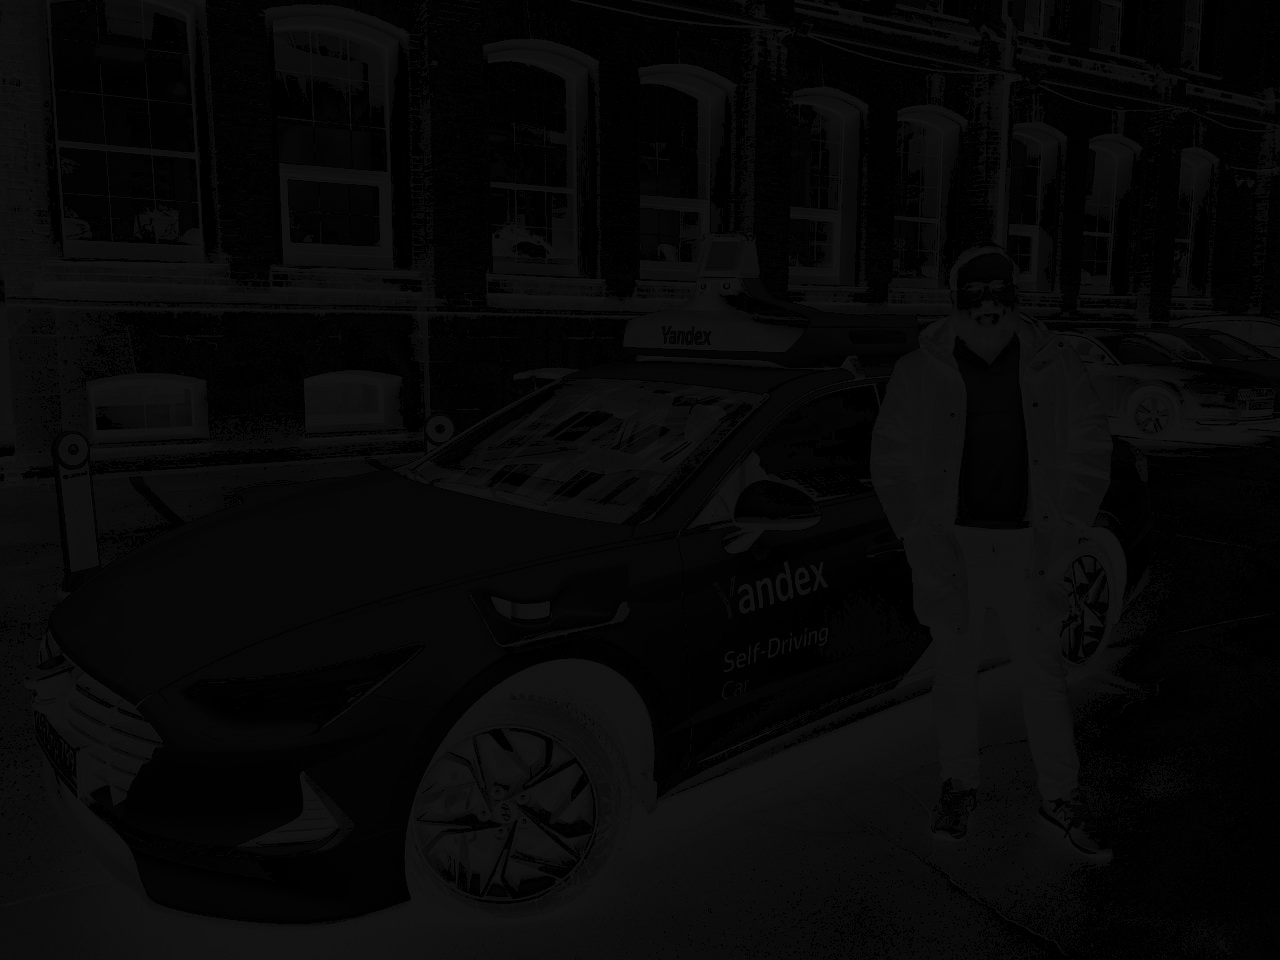
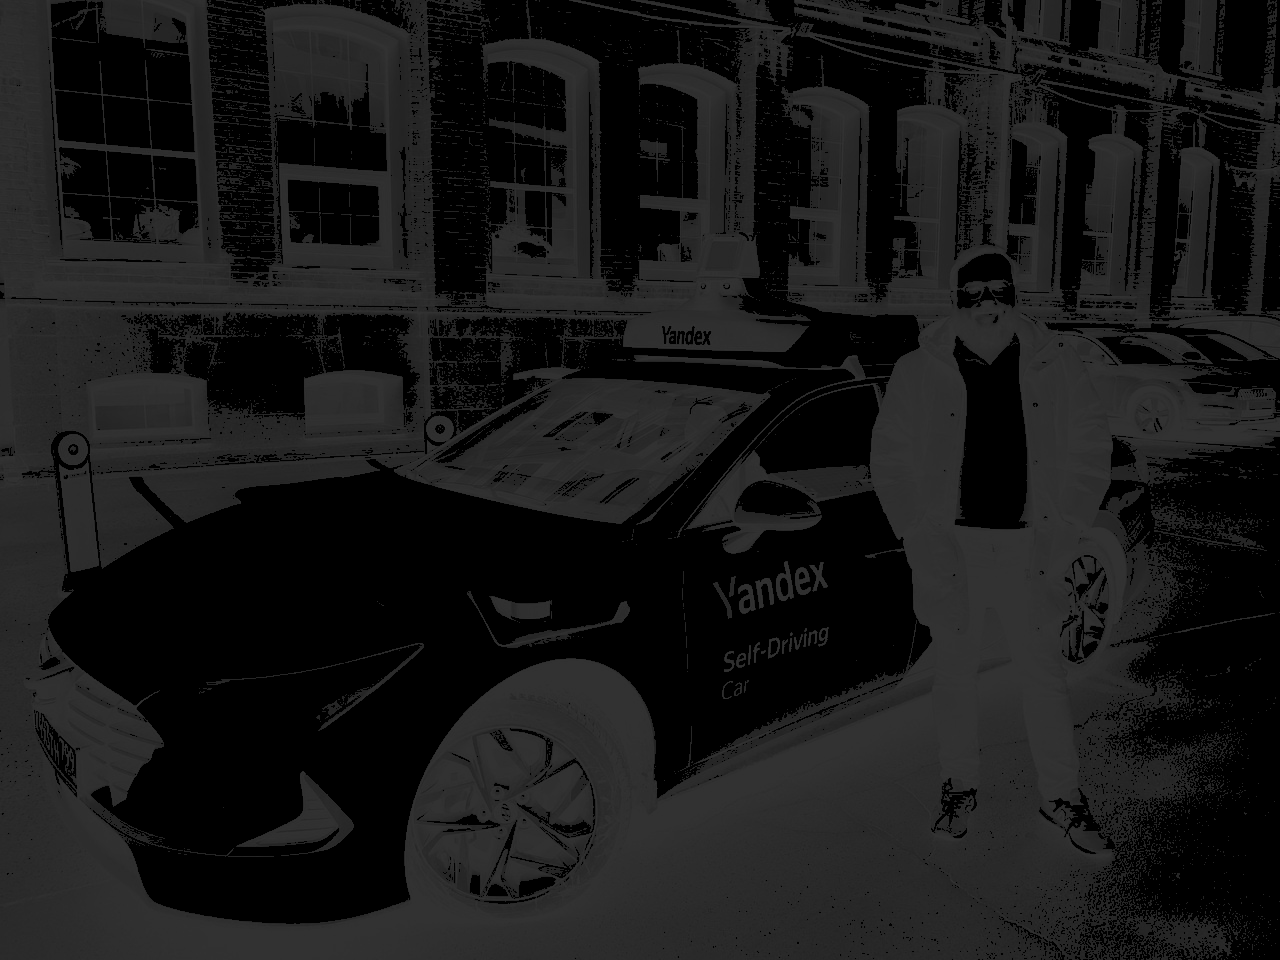
update media

diff --git a/lab4/src/lab4.cpp b/lab4/src/lab4.cpp
@@ -171,25 +171,25 @@ int main(int argc, char** argv)
 
     // Segmentation Veber
     
-    // image = cv::imread(path + "/source/face.png", 0);
-    // image_new = image.clone();
+    image = cv::imread(path + "/source/face.png", 0);
+    image_new = image.clone();
 
-    // for(int i = 0; i < image_new.rows; ++i){
-    //     for(int j = 0; j < image_new.cols; ++j){
-    //         if(image_new.at<uchar>(i, j) <= 88)
-    //             image_new.at<uchar>(i, j) = 20 - 12 * image_new.at<uchar>(i, j) / 88;   
+    for(int i = 0; i < image_new.rows; ++i){
+        for(int j = 0; j < image_new.cols; ++j){
+            if(image_new.at<uchar>(i, j) <= 110)
+                image_new.at<uchar>(i, j) = 50 - 12 * image_new.at<uchar>(i, j) / 88;   
             
-    //         else if(image_new.at<uchar>(i, j) <= 138)
-    //             image_new.at<uchar>(i, j) = 0.002 * cv::pow(image_new.at<uchar>(i, j) - 88, 2); 
+            else if(image_new.at<uchar>(i, j) <= 150)
+                image_new.at<uchar>(i, j) = 0.0002 * cv::pow(image_new.at<uchar>(i, j) - 88, 2); 
             
-    //         else if(image_new.at<uchar>(i, j) <= 255)
-    //             image_new.at<uchar>(i, j) = 7 * (image_new.at<uchar>(i, j) - 138) / 117; 
-    //     }
-    // }
+            else if(image_new.at<uchar>(i, j) <= 255)
+                image_new.at<uchar>(i, j) = 0.07 * (image_new.at<uchar>(i, j) - 138) / 117; 
+        }
+    }
 
-    // cv::imwrite(path + "/outputs/image_veber_segmentation.png", image_new);
-    // cv::imshow("image", image_new);
-    // cv::waitKey();
+    cv::imwrite(path + "/outputs/image_veber_segmentation.png", image_new);
+    cv::imshow("image", image_new);
+    cv::waitKey();
 
 
 
@@ -233,86 +233,86 @@ int main(int argc, char** argv)
     // Texture segmentation
 
 
-    image = cv::imread(path + "/source/sea.png", 0);
+    // image = cv::imread(path + "/source/sea.png", 0);
 
-    cv::Mat E, Eim;
-    cv::Mat el = cv::getStructuringElement(cv::MORPH_RECT, cv::Size(9, 9));
-    entropy(image, E, el);
+    // cv::Mat E, Eim;
+    // cv::Mat el = cv::getStructuringElement(cv::MORPH_RECT, cv::Size(9, 9));
+    // entropy(image, E, el);
 
-    double Emin, Emax;
-    cv::minMaxLoc(E, &Emin, &Emax);
-    Eim = (E - Emin) / (Emax - Emin);
-    Eim.convertTo(Eim, CV_8U, 255);
-    cv::Mat BW1;
-    cv::threshold(Eim, BW1, 0, 255, cv::THRESH_OTSU);
+    // double Emin, Emax;
+    // cv::minMaxLoc(E, &Emin, &Emax);
+    // Eim = (E - Emin) / (Emax - Emin);
+    // Eim.convertTo(Eim, CV_8U, 255);
+    // cv::Mat BW1;
+    // cv::threshold(Eim, BW1, 0, 255, cv::THRESH_OTSU);
 
-    cv::imwrite(path + "/outputs/image_entropy_segmentation.png", BW1);
+    // cv::imwrite(path + "/outputs/image_entropy_segmentation.png", BW1);
     
-    cv::Mat BWao, closeBWao, Mask1;
-    bwareaopen(BW1, BWao, 50000);
-    cv::imwrite(path + "/outputs/image_bwareoopen_segmentation.png", BWao);
+    // cv::Mat BWao, closeBWao, Mask1;
+    // bwareaopen(BW1, BWao, 50000);
+    // cv::imwrite(path + "/outputs/image_bwareoopen_segmentation.png", BWao);
 
-    cv::Mat nhood = cv::getStructuringElement(cv::MORPH_RECT, cv::Size(9, 9));
-    cv::morphologyEx(BWao, closeBWao, cv::MORPH_CLOSE, nhood);
+    // cv::Mat nhood = cv::getStructuringElement(cv::MORPH_RECT, cv::Size(9, 9));
+    // cv::morphologyEx(BWao, closeBWao, cv::MORPH_CLOSE, nhood);
 
-    imfillholes(closeBWao, Mask1);
-    cv::imwrite(path + "/outputs/image_imclose_segmentation.png", Mask1);
+    // imfillholes(closeBWao, Mask1);
+    // cv::imwrite(path + "/outputs/image_imclose_segmentation.png", Mask1);
 
-    std::vector<std::vector<cv::Point>> contours;
-    cv::findContours(Mask1, contours, cv::RETR_TREE, cv::CHAIN_APPROX_NONE);
-    cv::Mat boundary = cv::Mat::zeros(Mask1.rows, Mask1.cols, CV_8UC1);
+    // std::vector<std::vector<cv::Point>> contours;
+    // cv::findContours(Mask1, contours, cv::RETR_TREE, cv::CHAIN_APPROX_NONE);
+    // cv::Mat boundary = cv::Mat::zeros(Mask1.rows, Mask1.cols, CV_8UC1);
     
-    cv::drawContours(boundary, contours, -11, 255, 1);
-    cv::imwrite(path + "/outputs/image_countours_segmentation.png", boundary);
+    // cv::drawContours(boundary, contours, -11, 255, 1);
+    // cv::imwrite(path + "/outputs/image_countours_segmentation.png", boundary);
 
-    cv::Mat segmentResults = image.clone();
-    segmentResults.setTo(cv::Scalar(255), boundary != 0);
-    cv::imwrite(path + "/outputs/image_segmentResults_segmentation.png", segmentResults);
+    // cv::Mat segmentResults = image.clone();
+    // segmentResults.setTo(cv::Scalar(255), boundary != 0);
+    // cv::imwrite(path + "/outputs/image_segmentResults_segmentation.png", segmentResults);
 
-    cv::Mat I2 = image.clone();
-    I2.setTo(0, Mask1 != 0);
+    // cv::Mat I2 = image.clone();
+    // I2.setTo(0, Mask1 != 0);
 
-    cv::imwrite(path + "/outputs/I.png",I2);
-    cv::imshow("image", I2);
+    // cv::imwrite(path + "/outputs/I.png",I2);
+    // cv::imshow("image", I2);
 
-    cv::Mat E2, Eim2;
+    // cv::Mat E2, Eim2;
 
-    entropy(I2, E2, el);;
+    // entropy(I2, E2, el);;
 
-    double Emin2, Emax2;
-    cv::minMaxLoc(E2, &Emin2, &Emax2);
+    // double Emin2, Emax2;
+    // cv::minMaxLoc(E2, &Emin2, &Emax2);
 
-    Eim2 = (E2 - Emin2) /  (Emax2 -  Emin2);
-    Eim2.convertTo(Eim2, CV_8U, 255);
+    // Eim2 = (E2 - Emin2) /  (Emax2 -  Emin2);
+    // Eim2.convertTo(Eim2, CV_8U, 255);
     
-    cv::Mat BW2;
+    // cv::Mat BW2;
 
-    cv::threshold(Eim2, BW2, 0, 255, cv::THRESH_OTSU);
-    cv::imwrite(path + "/outputs/image_entropy2_segmentation.png", BW2);
+    // cv::threshold(Eim2, BW2, 0, 255, cv::THRESH_OTSU);
+    // cv::imwrite(path + "/outputs/image_entropy2_segmentation.png", BW2);
 
-    cv::Mat BW2ao, closeBW2ao, Mask2;
-    bwareaopen(BW2, BW2ao, 50000);
-    cv::imwrite(path + "/outputs/image_bwareoopen2_segmentation.png", BW2ao);
+    // cv::Mat BW2ao, closeBW2ao, Mask2;
+    // bwareaopen(BW2, BW2ao, 50000);
+    // cv::imwrite(path + "/outputs/image_bwareoopen2_segmentation.png", BW2ao);
 
-    cv::morphologyEx(BW2ao, closeBW2ao, cv::MORPH_CLOSE, nhood);
-    imfillholes(closeBW2ao, Mask2);
-    cv::imwrite(path + "/outputs/image_imclose2_segmentation.png", Mask2);
+    // cv::morphologyEx(BW2ao, closeBW2ao, cv::MORPH_CLOSE, nhood);
+    // imfillholes(closeBW2ao, Mask2);
+    // cv::imwrite(path + "/outputs/image_imclose2_segmentation.png", Mask2);
 
-    std::vector<std::vector<cv::Point>> contours2;
-    cv::findContours(Mask2, contours2, cv::RETR_TREE, cv::CHAIN_APPROX_NONE);
-    cv::Mat boundary2 = cv::Mat::zeros(Mask2.rows, Mask2.cols, CV_8UC1);
-    cv::drawContours(boundary2, contours2, -1, 255, 1);
-    cv::imwrite(path + "/outputs/image_countours2_segmentation.png", boundary2);
+    // std::vector<std::vector<cv::Point>> contours2;
+    // cv::findContours(Mask2, contours2, cv::RETR_TREE, cv::CHAIN_APPROX_NONE);
+    // cv::Mat boundary2 = cv::Mat::zeros(Mask2.rows, Mask2.cols, CV_8UC1);
+    // cv::drawContours(boundary2, contours2, -1, 255, 1);
+    // cv::imwrite(path + "/outputs/image_countours2_segmentation.png", boundary2);
 
-    cv::Mat segmentResults2 = I2.clone();
-    segmentResults2.setTo(255, boundary2 != 0);
-    cv::imwrite(path + "/outputs/image_segmentResults2_segmentation.png", segmentResults2);
+    // cv::Mat segmentResults2 = I2.clone();
+    // segmentResults2.setTo(255, boundary2 != 0);
+    // cv::imwrite(path + "/outputs/image_segmentResults2_segmentation.png", segmentResults2);
 
-    I2 = image.clone();
-    I2.setTo(0, Mask2 != 0);
+    // I2 = image.clone();
+    // I2.setTo(0, Mask2 != 0);
 
-    cv::imwrite(path + "/outputs/I2.png",I2);
-    cv::imshow("image", I2);
+    // cv::imwrite(path + "/outputs/I2.png",I2);
+    // cv::imshow("image", I2);
 
-    cv::waitKey();
+    // cv::waitKey();
 }
